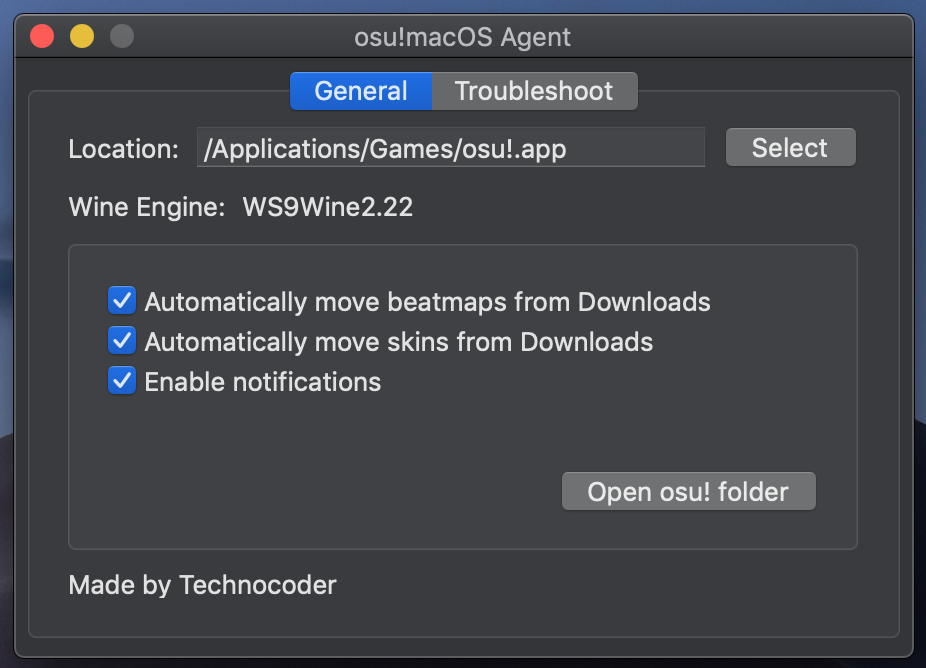
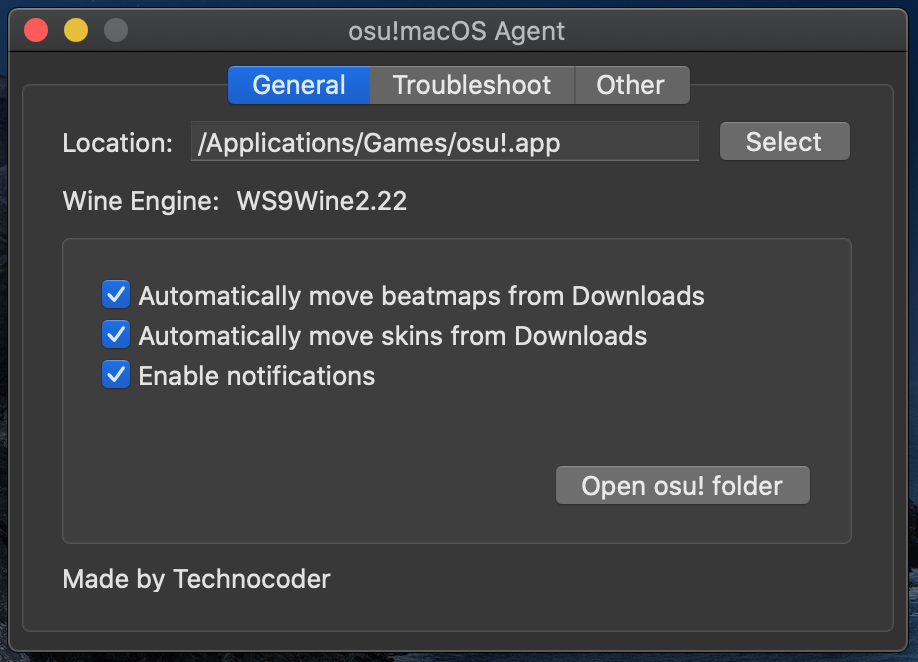
Add button to update osu! executable

diff --git a/osu.macOS.Agent/ViewController.cs b/osu.macOS.Agent/ViewController.cs
@@ -2,6 +2,7 @@
 using System.IO;
 using System.IO.Compression;
 using System.Linq;
+using System.Net;
 using System.Text.RegularExpressions;
 using AppKit;
 using Foundation;
@@ -16,6 +17,7 @@ namespace osu.macOS.Agent
 		private PassTableSource passSource;
 
 		private readonly NSUserDefaults defaults = NSUserDefaults.StandardUserDefaults;
+		private const string UpdateLocation = "https://m1.ppy.sh/r/osu!install.exe";
 
 		public ViewController(IntPtr handle) : base(handle) {}
 
@@ -114,6 +116,22 @@ namespace osu.macOS.Agent
 			NSPasteboard.GeneralPasteboard.WriteObjects(contents);
 		}
 
+		partial void UpdateButtonClick(NSObject sender)
+		{
+			UpdateButton.Enabled = false;
+			var client = new WebClient();
+			client.DownloadFileCompleted += (_, arguments) =>
+			{
+				UpdateButton.Enabled = true;
+				UpdateProgress.DoubleValue = 0;
+			};
+
+			client.DownloadProgressChanged += (_, arguments) =>
+				UpdateProgress.DoubleValue = arguments.ProgressPercentage;
+			var target = Path.Combine(instance.DataPath(), "osu!.exe");
+			client.DownloadFileAsync(new Uri(UpdateLocation), target);
+		}
+
 		public override void ViewDidLoad()
 		{
 			// Defaults are stored in ~/Library/Preferences/*.osu.macOS.Agent.plist
@@ -150,6 +168,7 @@ namespace osu.macOS.Agent
 			MapMoveCheckbox.Enabled = enabled;
 			SkinMoveCheckbox.Enabled = enabled;
 			OpenGameFolderButton.Enabled = enabled;
+			UpdateButton.Enabled = enabled;
 
 			ScanButton.Enabled = enabled;
 			RepairButton.Enabled = false;

diff --git a/osu.macOS.Agent/ViewController.designer.cs b/osu.macOS.Agent/ViewController.designer.cs
@@ -49,6 +49,12 @@ namespace osu.macOS.Agent
 		[Outlet]
 		AppKit.NSButton SkinMoveCheckbox { get; set; }
 
+		[Outlet]
+		AppKit.NSButton UpdateButton { get; set; }
+
+		[Outlet]
+		AppKit.NSProgressIndicator UpdateProgress { get; set; }
+
 		[Action ("MapMoveCheckboxClick:")]
 		partial void MapMoveCheckboxClick (Foundation.NSObject sender);
 
@@ -73,6 +79,9 @@ namespace osu.macOS.Agent
 		[Action ("SkinMoveCheckboxClick:")]
 		partial void SkinMoveCheckboxClick (Foundation.NSObject sender);
 
+		[Action ("UpdateButtonClick:")]
+		partial void UpdateButtonClick (Foundation.NSObject sender);
+
 		void ReleaseDesignerOutlets ()
 		{
 			if (EngineLabel != null) {
@@ -93,6 +102,11 @@ namespace osu.macOS.Agent
 			if (NotificationCheckbox != null) {
 				NotificationCheckbox.Dispose ();
 				NotificationCheckbox = null;
+			}
+
+			if (OpenGameFolderButton != null) {
+				OpenGameFolderButton.Dispose ();
+				OpenGameFolderButton = null;
 			}
 
 			if (PassLabel != null) {
@@ -130,9 +144,14 @@ namespace osu.macOS.Agent
 				SkinMoveCheckbox = null;
 			}
 
-			if (OpenGameFolderButton != null) {
-				OpenGameFolderButton.Dispose ();
-				OpenGameFolderButton = null;
+			if (UpdateButton != null) {
+				UpdateButton.Dispose ();
+				UpdateButton = null;
+			}
+
+			if (UpdateProgress != null) {
+				UpdateProgress.Dispose ();
+				UpdateProgress = null;
 			}
 
 		}

diff --git a/README.md b/README.md
@@ -5,6 +5,8 @@ An auxiliary troubleshooting tool for osu!
 
 ## Features
 - Automatically move maps and skins added to the Downloads folder
+- Button to update osu! executable
+- Button to open osu! folder
 
 ## Installation
 1. Download the [latest application release](https://github.com/Techno-coder/osu-macOS-Agent/releases) and extract it
@@ -26,6 +28,7 @@ Some of the checks that are performed include:
 - Engine version
 - Log file errors
 - Quarantine attribute
+- Execute flag
 - Razer Synapse
 
 The full list of checks is implemented in [this folder](https://github.com/Techno-coder/osu-macOS-Agent/tree/master/osu.macOS.Agent/Passes).
